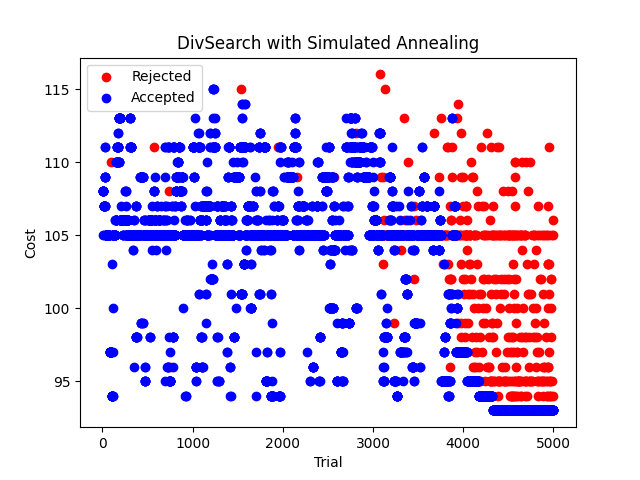
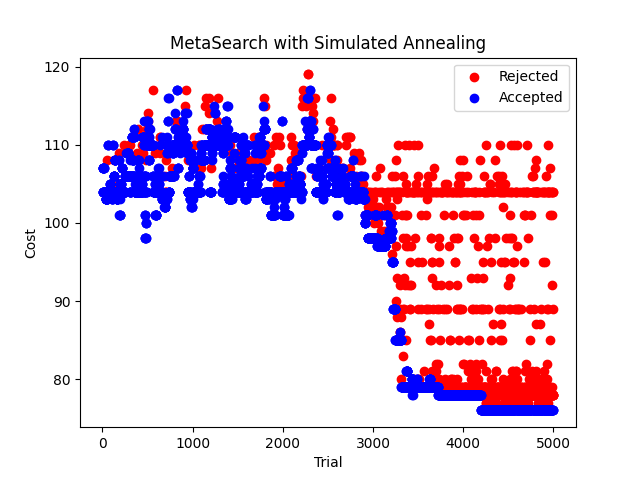
better example

diff --git a/basic_horner.py b/basic_horner.py
@@ -95,7 +95,7 @@ def main():
     engine = MetaSearch(target, disable_mem=True)
     cost = engine.greedySearch()
     print("greedy -->", cost)
-    cost = engine.annealSearch(5000, 0.25, 100, 4000, save=True)
+    cost = engine.annealSearch(5000, 0.25, 10, 4000, save=True)
     print("annealing -->", cost)
     cost = engine.randomSearch(1000, 0.25, save=True)
     print("random -->", cost)
